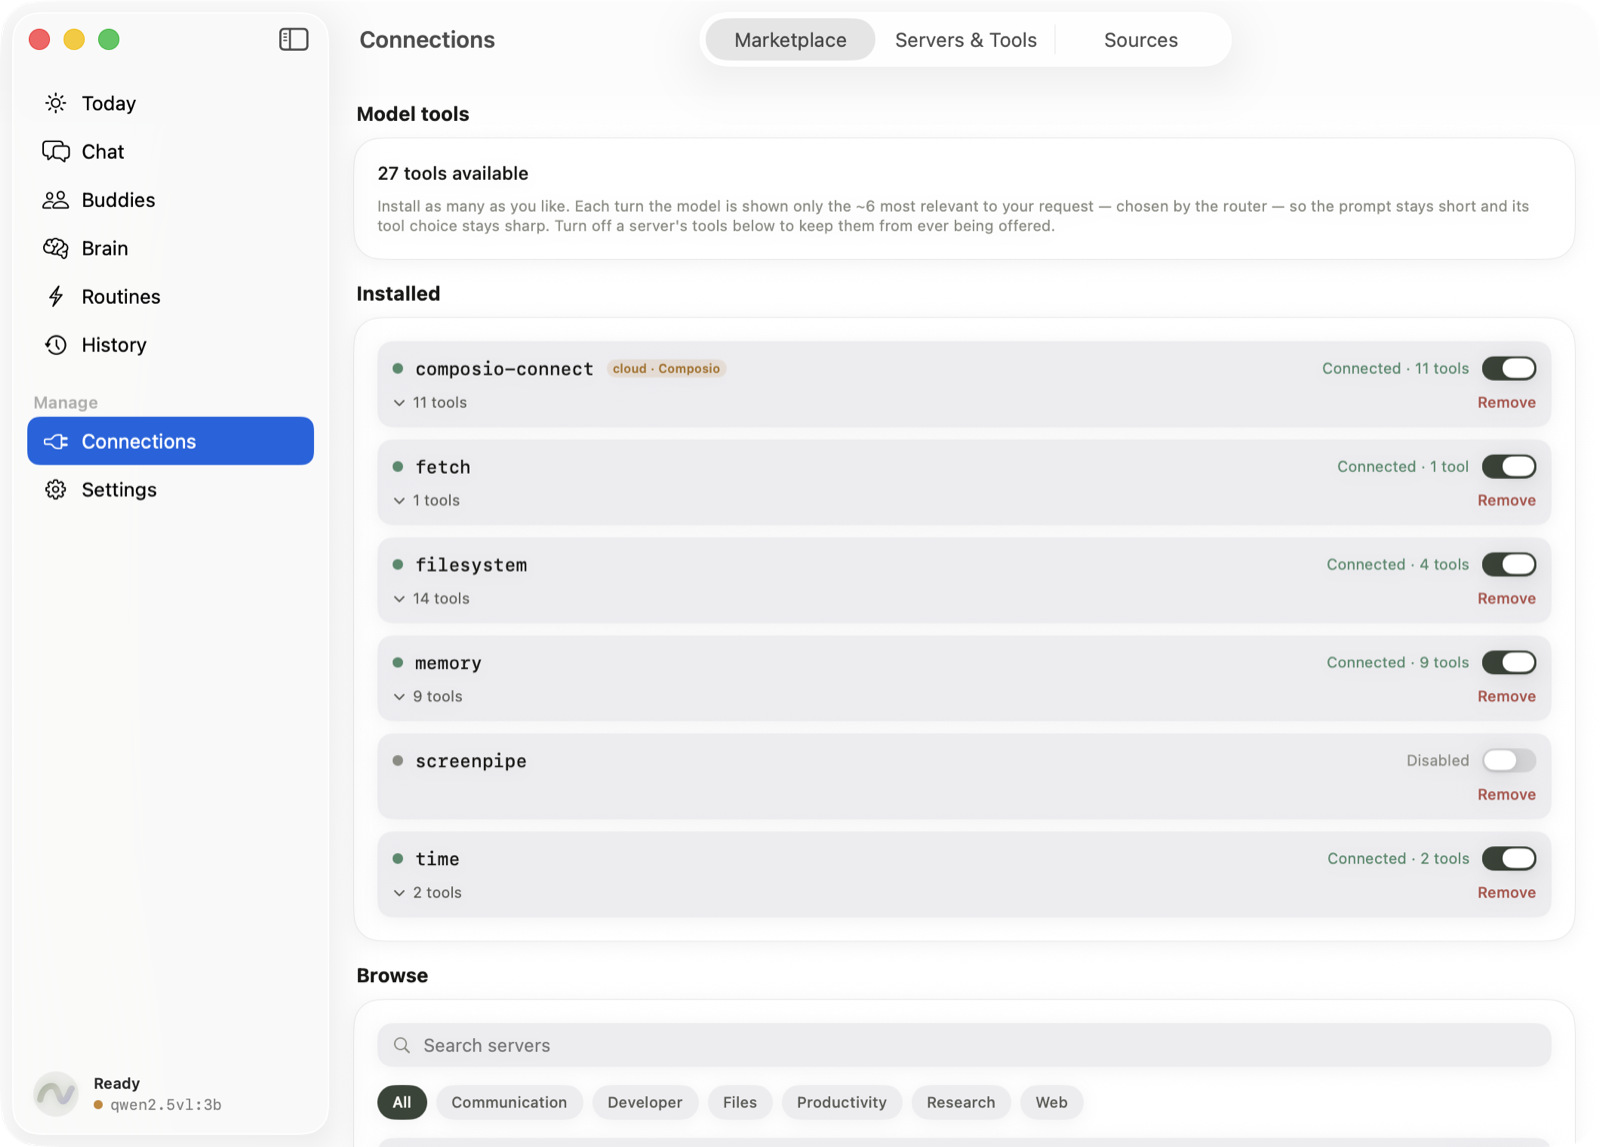
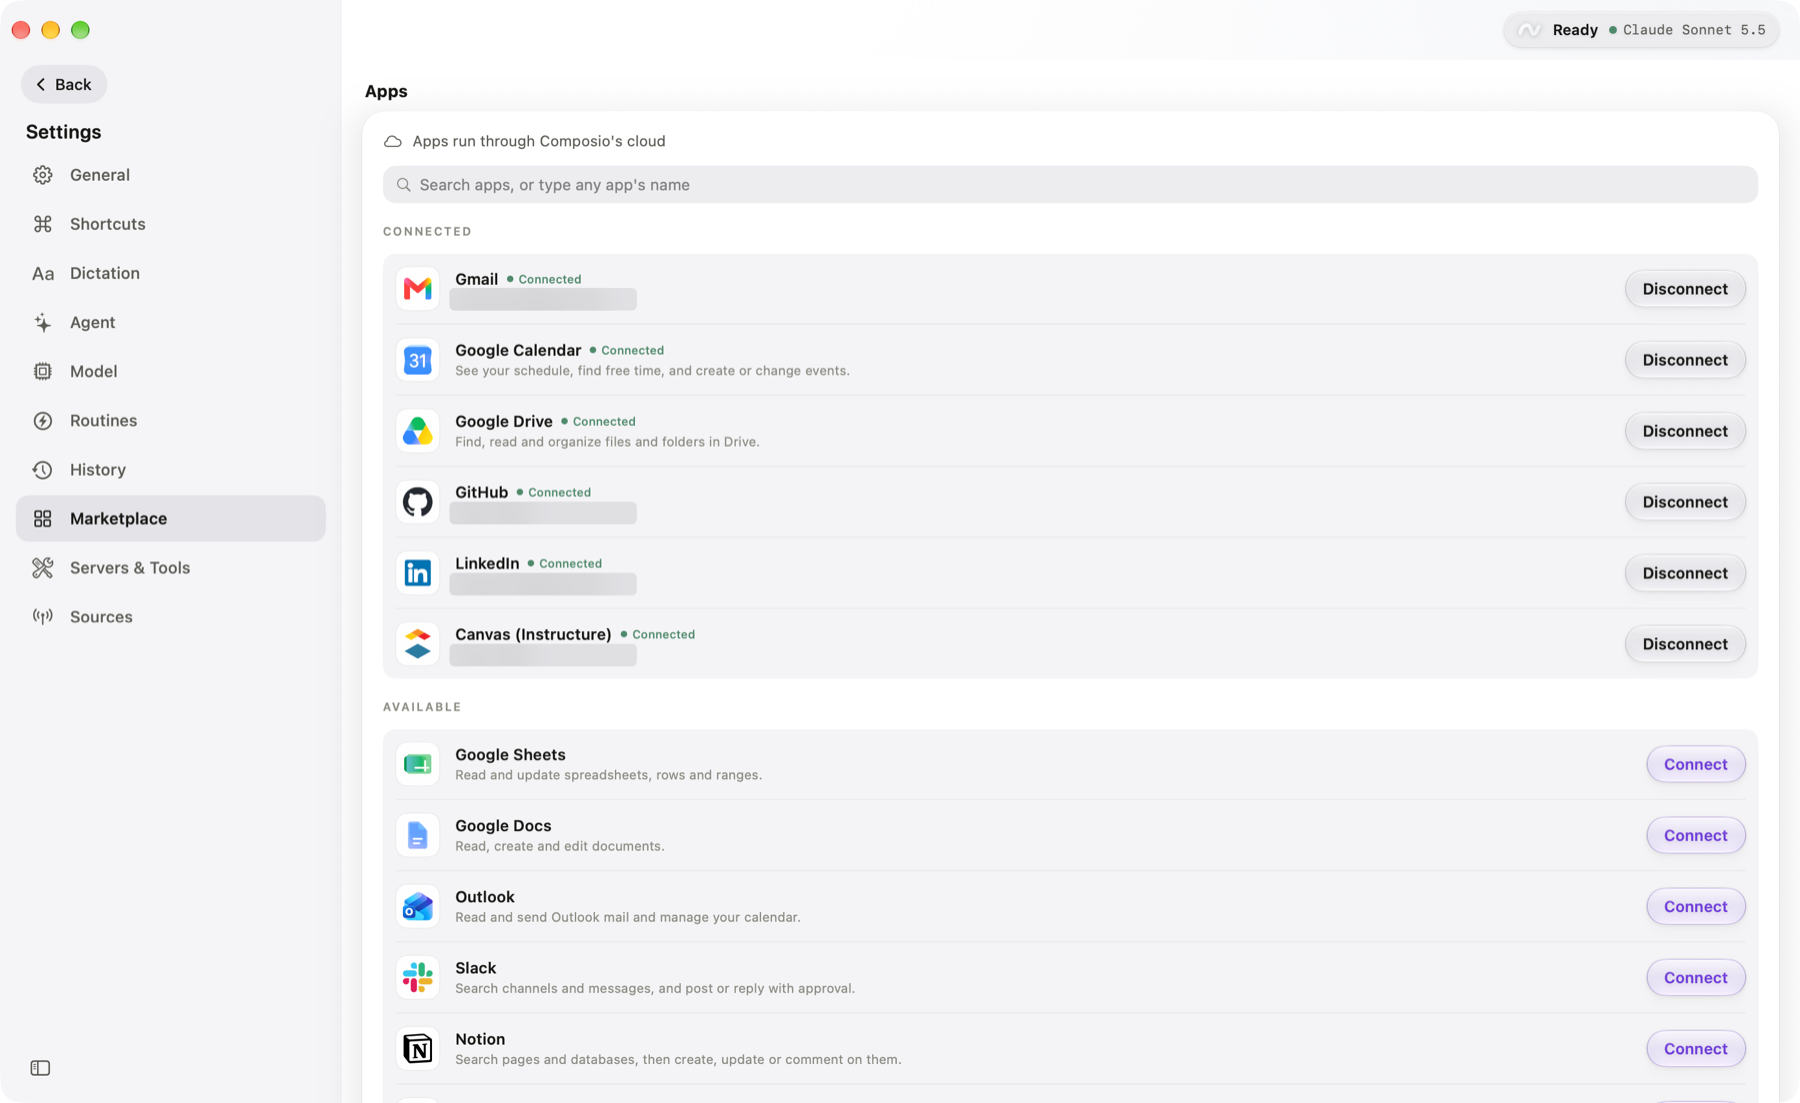
Refresh README and screenshots for the new sidebar UI
New captures of Today, Buddies, Automations, Canvas, Marketplace, Model and Settings (account emails and a calendar item blurred); README tour and UI descriptions rewritten to match.

diff --git a/README.md b/README.md
@@ -89,31 +89,47 @@ Wisp recognises them and just does it.
 ## Tour
 
 <p align="center">
-  <img src="docs/assets/screenshots/window-today.png" alt="The Wisp window's Today page: a bento dashboard with an ask bar, today's activity, buddies, up next, brain, routines and recent answers" width="100%">
-  <br><sub><b>Today.</b> A live bento dashboard: ask bar, what Wisp did today, your buddies, your next meeting, the brain, one-click routines and recent answers.</sub>
-</p>
-
-<p align="center">
-  <img src="docs/assets/screenshots/menu-and-settings.png" alt="Wisp's native menu bar menu next to Settings → General with permissions and what's running" width="100%">
-  <br><sub><b>Menu bar and settings.</b> A plain native menu for the quick things, including Pause Listening. Settings shows every permission, the model that is answering, and whether anything leaves your Mac.</sub>
+  <img src="docs/assets/screenshots/today.png" alt="The Wisp window's Today page: a buddy mascot over a dark ask pill, a greeting, today's checklist, buddies, what's next and what's coming up" width="100%">
+  <br><sub><b>Today.</b> Your buddies on the left, and a calm bento dashboard on the right: ask pill, today's checklist, next automations, upcoming events, routines and recent answers.</sub>
 </p>
 
 <table>
 <tr>
-<td width="33%" align="center" valign="top">
-  <img src="docs/assets/screenshots/routines.png" alt="The Routines page: a saved 'Summarize this page' routine with its instruction, a ⌃⌥1 shortcut and the browsers it's suggested in">
-  <br><sub><b>Routines.</b> Saved instructions on <kbd>⌃⌥</kbd>+number, suggested in the notch for the apps they fit.</sub>
+<td width="50%" align="center" valign="top">
+  <img src="docs/assets/screenshots/buddies.png" alt="A buddy's page: its mission, suggested jobs, and a Tools panel with per-app and per-ability switches">
+  <br><sub><b>Buddies.</b> Every buddy has its own character, thread and a Tools panel: which connected apps and which Wisp abilities it may use.</sub>
 </td>
-<td width="33%" align="center" valign="top">
-  <img src="docs/assets/screenshots/marketplace.png" alt="Connections → Marketplace: installed MCP servers with their tool counts and toggles, and a searchable catalogue">
-  <br><sub><b>Marketplace.</b> Install MCP servers in a click. Only the few tools relevant to each request reach the model.</sub>
+<td width="50%" align="center" valign="top">
+  <img src="docs/assets/screenshots/automations.png" alt="The Automations page: a say-it box and a list of automations with run buttons and switches">
+  <br><sub><b>Automations.</b> Say it in a sentence, or start from a ready-made one. Run, pause or inspect each from the list.</sub>
 </td>
-<td width="33%" align="center" valign="top">
-  <img src="docs/assets/screenshots/settings-general.png" alt="Settings → General: every permission granted, the local model running, and 'Runs entirely on this Mac'">
-  <br><sub><b>Settings.</b> Permissions, what is running, and a plain statement of whether anything leaves your Mac.</sub>
+</tr>
+<tr>
+<td width="50%" align="center" valign="top">
+  <img src="docs/assets/screenshots/canvas.png" alt="The Canvas page: paste a calendar feed link and plan your day into Calendar and Reminders">
+  <br><sub><b>Canvas.</b> Paste your calendar feed once; Wisp plans the day into Calendar and Reminders.</sub>
+</td>
+<td width="50%" align="center" valign="top">
+  <img src="docs/assets/screenshots/marketplace.png" alt="Settings → Marketplace: connected and available apps">
+  <br><sub><b>Marketplace.</b> Connect Gmail, Calendar, Drive, GitHub, Slack, Notion and more, with real logos and one-click disconnect.</sub>
+</td>
+</tr>
+<tr>
+<td width="50%" align="center" valign="top">
+  <img src="docs/assets/screenshots/model.png" alt="Settings → Model: provider, Claude model, thinking level, local usage and system memory">
+  <br><sub><b>Model.</b> Pick the brain, set how hard it thinks, and see local usage and memory. Anything that leaves your Mac is flagged.</sub>
+</td>
+<td width="50%" align="center" valign="top">
+  <img src="docs/assets/screenshots/settings.png" alt="Settings → General: permissions, what's running and the theme gallery">
+  <br><sub><b>Settings.</b> Permissions, what is running (speech and voice on-device), and a gallery of themes.</sub>
 </td>
 </tr>
 </table>
+
+<p align="center">
+  <img src="docs/assets/screenshots/notch.png" alt="Wisp answering in the notch" width="100%">
+  <br><sub><b>The notch.</b> Where Wisp is used: answers, glance cards, approvals and quick chat.</sub>
+</p>
 
 ## Everything Wisp does
 
@@ -194,10 +210,10 @@ Wisp recognises them and just does it.
 <td width="50%" valign="top">
 
 ### 🫧 Buddies
-Named, coloured agents that each own one job, in a messenger-style window.
+Named agents that each own one job, listed in the window's sidebar like contacts.
 
-- **Living characters** that breathe, blink, follow your pointer and show a mood: working, happy,
-  sleepy, oops, waiting for your OK.
+- **Living characters**, each its own shape (triangle, pill, cube, cloud, drop…), that breathe,
+  blink, follow your pointer and show a mood: working, happy, sleepy, oops, waiting for your OK.
 - **Their own thread, memory, model and tool allow-list.** Give the news buddy the browser and
   nothing else, limit which connected apps it may use, or run one on a cloud model in parallel.
 - **Personalities** (Coach, Chill, Hype, Deadpan, Teacher) and **specialties** (Coder, Inbox,
@@ -247,10 +263,11 @@ A **local wiki about you and your work**, in `~/.wisp/brain/`: plain markdown an
 <td width="50%" valign="top">
 
 ### 🎨 Made to feel native
-- **Six themes** (Sage, Candy, Sunset, Mint, Berry Night, Mono) in light and dark, contrast-checked.
+- **A theme gallery** (Paper, Midnight, Aqua, Sage and more) in light and dark, contrast-checked.
 - **Liquid Glass** surfaces on macOS 26, one lit-edge button style, a bespoke single-stroke icon set.
-- **A calm window** with four sections by default (Today, Chat, Buddies, Settings), and an
-  **Advanced features** switch for Brain, Routines, History and Connections.
+- **A sidebar window.** Your buddies sit on top, then **Today**, **Chat**, **Automations** and **Canvas**;
+  everything else (shortcuts, dictation, agent, model, routines, history, marketplace, servers, sources)
+  lives under one **Settings** gear, and an **Advanced features** switch adds Brain.
 - **First-run setup** in four skippable steps; nothing is switched on until you tap it.
 - **Playful, but optional.** Squish, bounce and bursts yield to Reduce Motion.
 - **Usage log** with token counts and estimated cost per provider, stored locally, content never kept.
